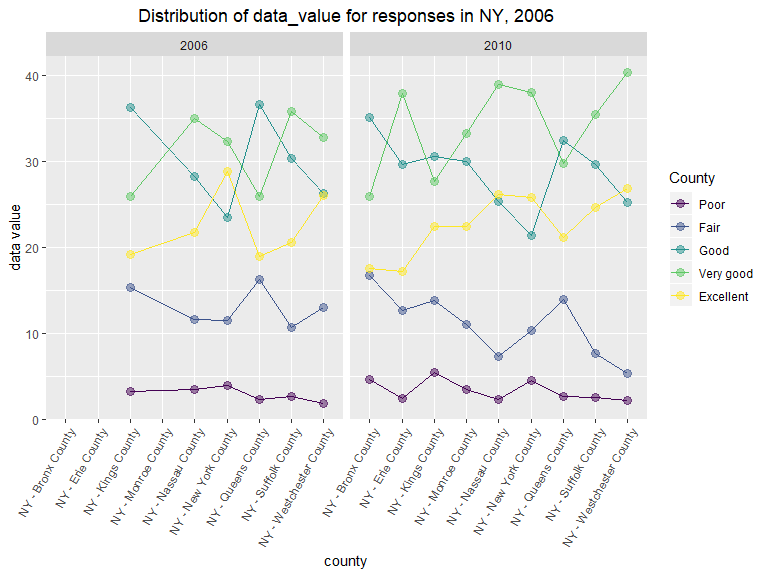
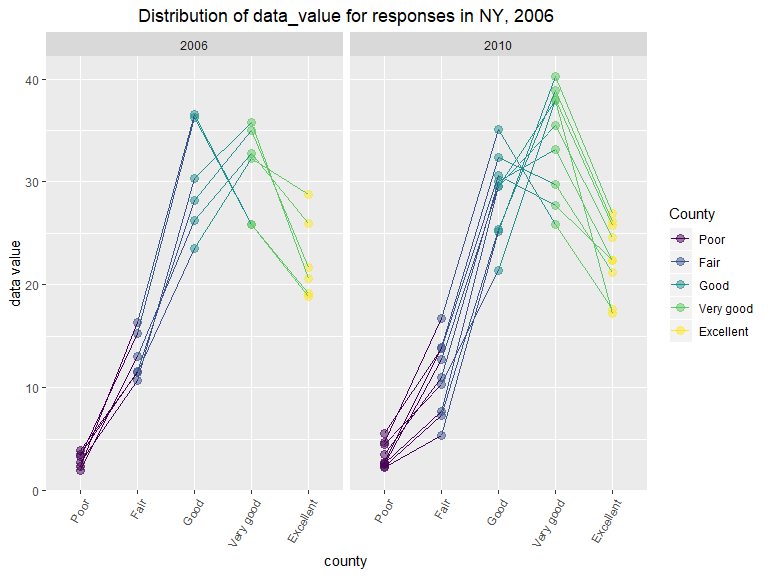
refined conmments

diff --git a/p8105_hw3_yl4360.md b/p8105_hw3_yl4360.md
@@ -37,7 +37,14 @@ aisle_level =
   pull(instacart, aisle) %>% 
   as.factor() %>% 
   levels()
-  
+head(aisle_level)
+```
+
+    ## [1] "air fresheners candles" "asian foods"           
+    ## [3] "baby accessories"       "baby bath body care"   
+    ## [5] "baby food formula"      "bakery desserts"
+
+``` r
 aisle_max = 
   instacart %>%
   group_by(aisle) %>%
@@ -60,8 +67,8 @@ aisle.
 
 According to the plot, it is hard to tell whether the orders from fresh
 vegetables or the ones from fresh fruits is the most but the result from
-coding is that the orders from fresh vegetables is the most. Therefore
-we need further verify.
+coding is that the orders from fresh vegetables is the most. Therefore I
+want to further verify.
 
 ``` r
 aisle_max_ver = 
@@ -70,7 +77,14 @@ aisle_max_ver =
   summarise(number = n()) %>% 
   arrange(desc(number)) %>% 
   head(2)
+aisle_max_ver
 ```
+
+    ## # A tibble: 2 x 2
+    ##   aisle            number
+    ##   <chr>             <int>
+    ## 1 fresh vegetables 150609
+    ## 2 fresh fruits     150473
 
 It is verified that the orders from fresh vegetables is the most.
 
@@ -80,51 +94,23 @@ Showing the three most popular items in each of the aisles “baking
 ingredients”, “dog food care”, and “packaged vegetables fruits”.
 
 ``` r
-baking = 
-  instacart %>%
-  group_by(product_name) %>%
-  filter(aisle == "baking ingredients") %>%
-  summarise(order_times = n()) %>%
-  arrange(desc(order_times)) %>%
-  head(n = 3) %>%
-  mutate(group = "baking ingredients") %>%
-  select(group, everything())
-
-dog = 
-  instacart %>%
-  group_by(product_name) %>%
-  filter(aisle == "dog food care") %>%
-  summarise(order_times = n()) %>%
-  arrange(desc(order_times)) %>%
-  head(n = 3) %>%
-  mutate(group = "dog food care") %>%
-  select(group, everything())
-
-vege =
-  instacart %>%
-  group_by(product_name) %>%
-  filter(aisle == "packaged vegetables fruits") %>%
-  summarise(order_times = n()) %>%
-  arrange(desc(order_times)) %>%
-  head(n = 3) %>%
-  mutate(group = "packaged vegetables fruits") %>%
-  select(group, everything())
-
-bind_rows(baking, dog, vege) %>%
-  knitr::kable()
+table1 = 
+  instacart %>% 
+  filter(aisle == "baking ingredients" | 
+         aisle == "dog food care" | 
+         aisle == "packaged vegetables fruits") %>%
+  group_by(aisle, product_name) %>%
+  summarize(n = n()) %>%
+  head(3) %>%
+  arrange(desc(n))
+knitr::kable (table1)
 ```
 
-| group                      | product\_name                                 | order\_times |
-| :------------------------- | :-------------------------------------------- | -----------: |
-| baking ingredients         | Light Brown Sugar                             |          499 |
-| baking ingredients         | Pure Baking Soda                              |          387 |
-| baking ingredients         | Cane Sugar                                    |          336 |
-| dog food care              | Snack Sticks Chicken & Rice Recipe Dog Treats |           30 |
-| dog food care              | Organix Chicken & Brown Rice Recipe           |           28 |
-| dog food care              | Small Dog Biscuits                            |           26 |
-| packaged vegetables fruits | Organic Baby Spinach                          |         9784 |
-| packaged vegetables fruits | Organic Raspberries                           |         5546 |
-| packaged vegetables fruits | Organic Blueberries                           |         4966 |
+| aisle              | product\_name                                |  n |
+| :----------------- | :------------------------------------------- | -: |
+| baking ingredients | 1 to 1 Gluten Free Baking Flour              | 11 |
+| baking ingredients | 1-to-1 Baking Flour, Gluten/Wheat/Dairy Free |  7 |
+| baking ingredients | 10" Graham Ready Crust                       |  5 |
 
 ## Table 2
 
@@ -174,7 +160,29 @@ brfss_clean =
     response == "Poor") %>% 
   mutate(response = factor(response, levels = c("Poor","Fair","Good","Very good", "Excellent"))) %>% 
    arrange(response)
+
+brfss_clean
 ```
+
+    ## # A tibble: 10,625 x 23
+    ##     year state county class topic question response sample_size data_value
+    ##    <int> <chr> <chr>  <chr> <chr> <chr>    <fct>          <int>      <dbl>
+    ##  1  2010 AL    AL - ~ Heal~ Over~ How is ~ Poor              45        5.5
+    ##  2  2010 AL    AL - ~ Heal~ Over~ How is ~ Poor              66        6.4
+    ##  3  2010 AL    AL - ~ Heal~ Over~ How is ~ Poor              35        4.2
+    ##  4  2010 AZ    AZ - ~ Heal~ Over~ How is ~ Poor              62        3.5
+    ##  5  2010 AZ    AZ - ~ Heal~ Over~ How is ~ Poor              49        5.7
+    ##  6  2010 AZ    AZ - ~ Heal~ Over~ How is ~ Poor              30        4  
+    ##  7  2010 AR    AR - ~ Heal~ Over~ How is ~ Poor              21        3  
+    ##  8  2010 AR    AR - ~ Heal~ Over~ How is ~ Poor              36        3.8
+    ##  9  2010 AR    AR - ~ Heal~ Over~ How is ~ Poor              16        2.4
+    ## 10  2010 CA    CA - ~ Heal~ Over~ How is ~ Poor              23        2.4
+    ## # ... with 10,615 more rows, and 14 more variables:
+    ## #   confidence_limit_low <dbl>, confidence_limit_high <dbl>,
+    ## #   display_order <int>, data_value_unit <chr>, data_value_type <chr>,
+    ## #   data_value_footnote_symbol <chr>, data_value_footnote <chr>,
+    ## #   data_source <chr>, class_id <chr>, topic_id <chr>, location_id <chr>,
+    ## #   question_id <chr>, respid <chr>, geo_location <chr>
 
   - **In 2002, which states were observed at 7 or more locations? What
     about in 2010?**
@@ -201,13 +209,13 @@ In 2002, CT, FL, MA, NC, NJ, PA were observed at 7 or more locations. In
 2010, CA, CO, FL, MA, MD, NC, NE, NJ, NY, OH, PA, SC, TX, WA were
 observed at 7 or more locations.
 
-  - **Construct a dataset** that is limited to Excellent responses, and
-    contains, year, state, and a variable that averages the data\_value
-    across locations within a state.
+## Construct a dataset and Make a “spaghetti” plot
 
-## Make a “spaghetti” plot
+Dataset: limited to Excellent responses, and contains, year, state, and
+a variable that averages the data\_value across locations within a
+state.
 
-Showing this average value over time within a state.
+Plot: showing this average value over time within a state.
 
 ``` r
 sp_plot = 
@@ -251,7 +259,7 @@ tp_plot =
     response == "Poor",
     state == "NY") %>% 
   select(year, county, response, data_value) %>% 
-  ggplot(aes(x = county, y = data_value, group = response, color = response))+
+  ggplot(aes(x = response, y = data_value, group = county, color = response))+
   geom_point(size = 3, alpha = .5) + 
   geom_line() +
   labs(
@@ -273,8 +281,8 @@ tp_plot
 
 According to the two-panel plot, we can see that there are two more
 counties, Bronx and Erie added into the data in 2010. Generally, “poor”
-reponse matches with low data value and “very good” and “excellent”
-reponse match with high data value.
+reponse matches with lowest data value and “Excellent” reponse match
+with highest data value.
 
 # Problem 3
 
@@ -434,5 +442,6 @@ plot
 
 <img src="p8105_hw3_yl4360_files/figure-gfm/unnamed-chunk-14-1.png" width="90%" />
 
-From the plot we can see that, at noon and late at night, the activity
-counts are much higher than midnight and afternoon.
+From the plot we can see that, at noon on Sunday and late at night on
+each day, the activity counts are much higher than midnight and
+afternoon each day.
